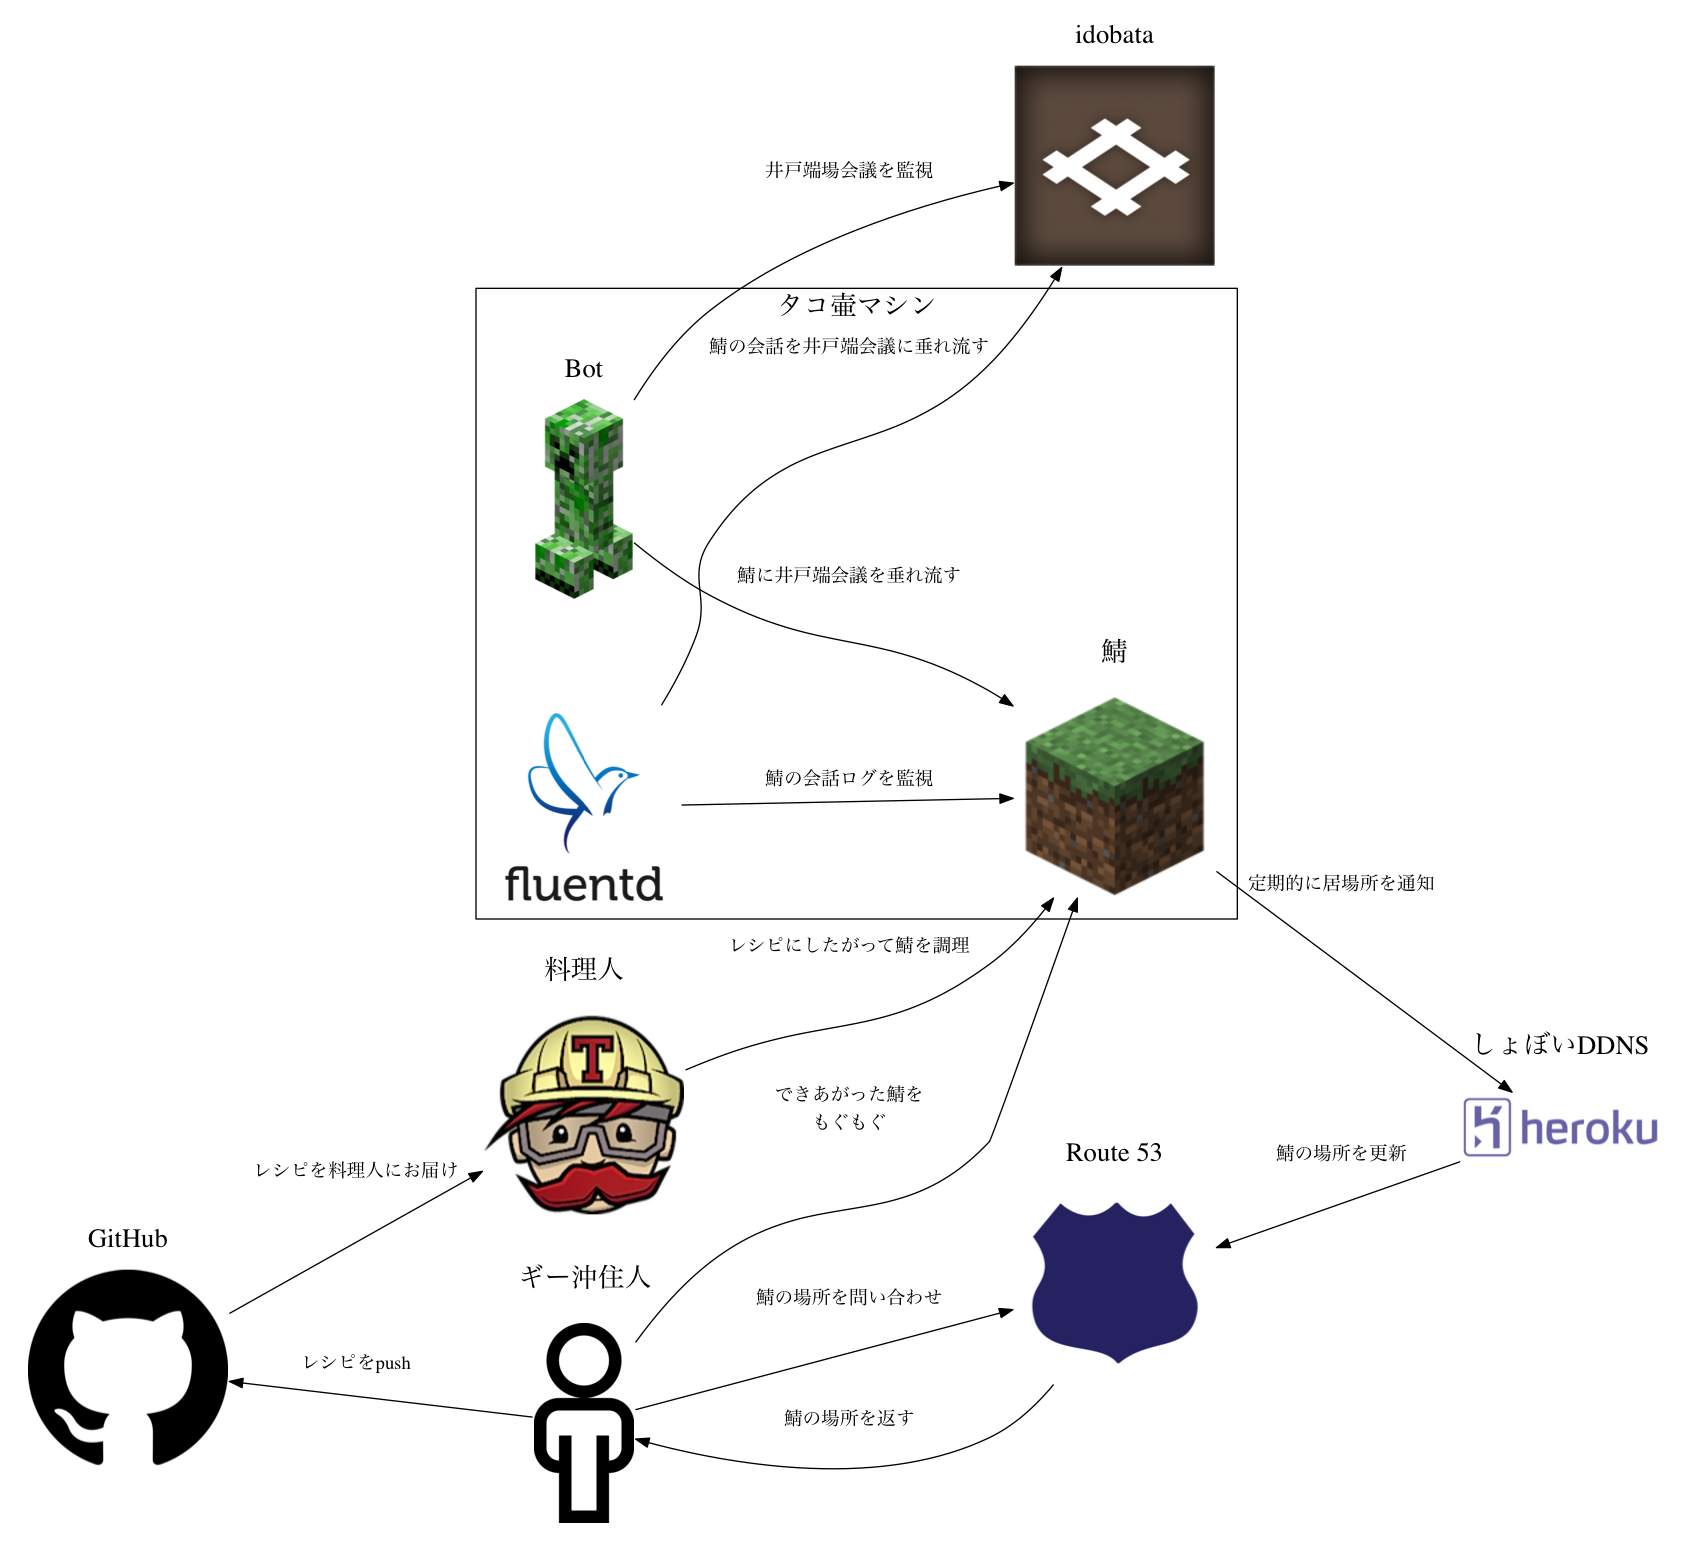
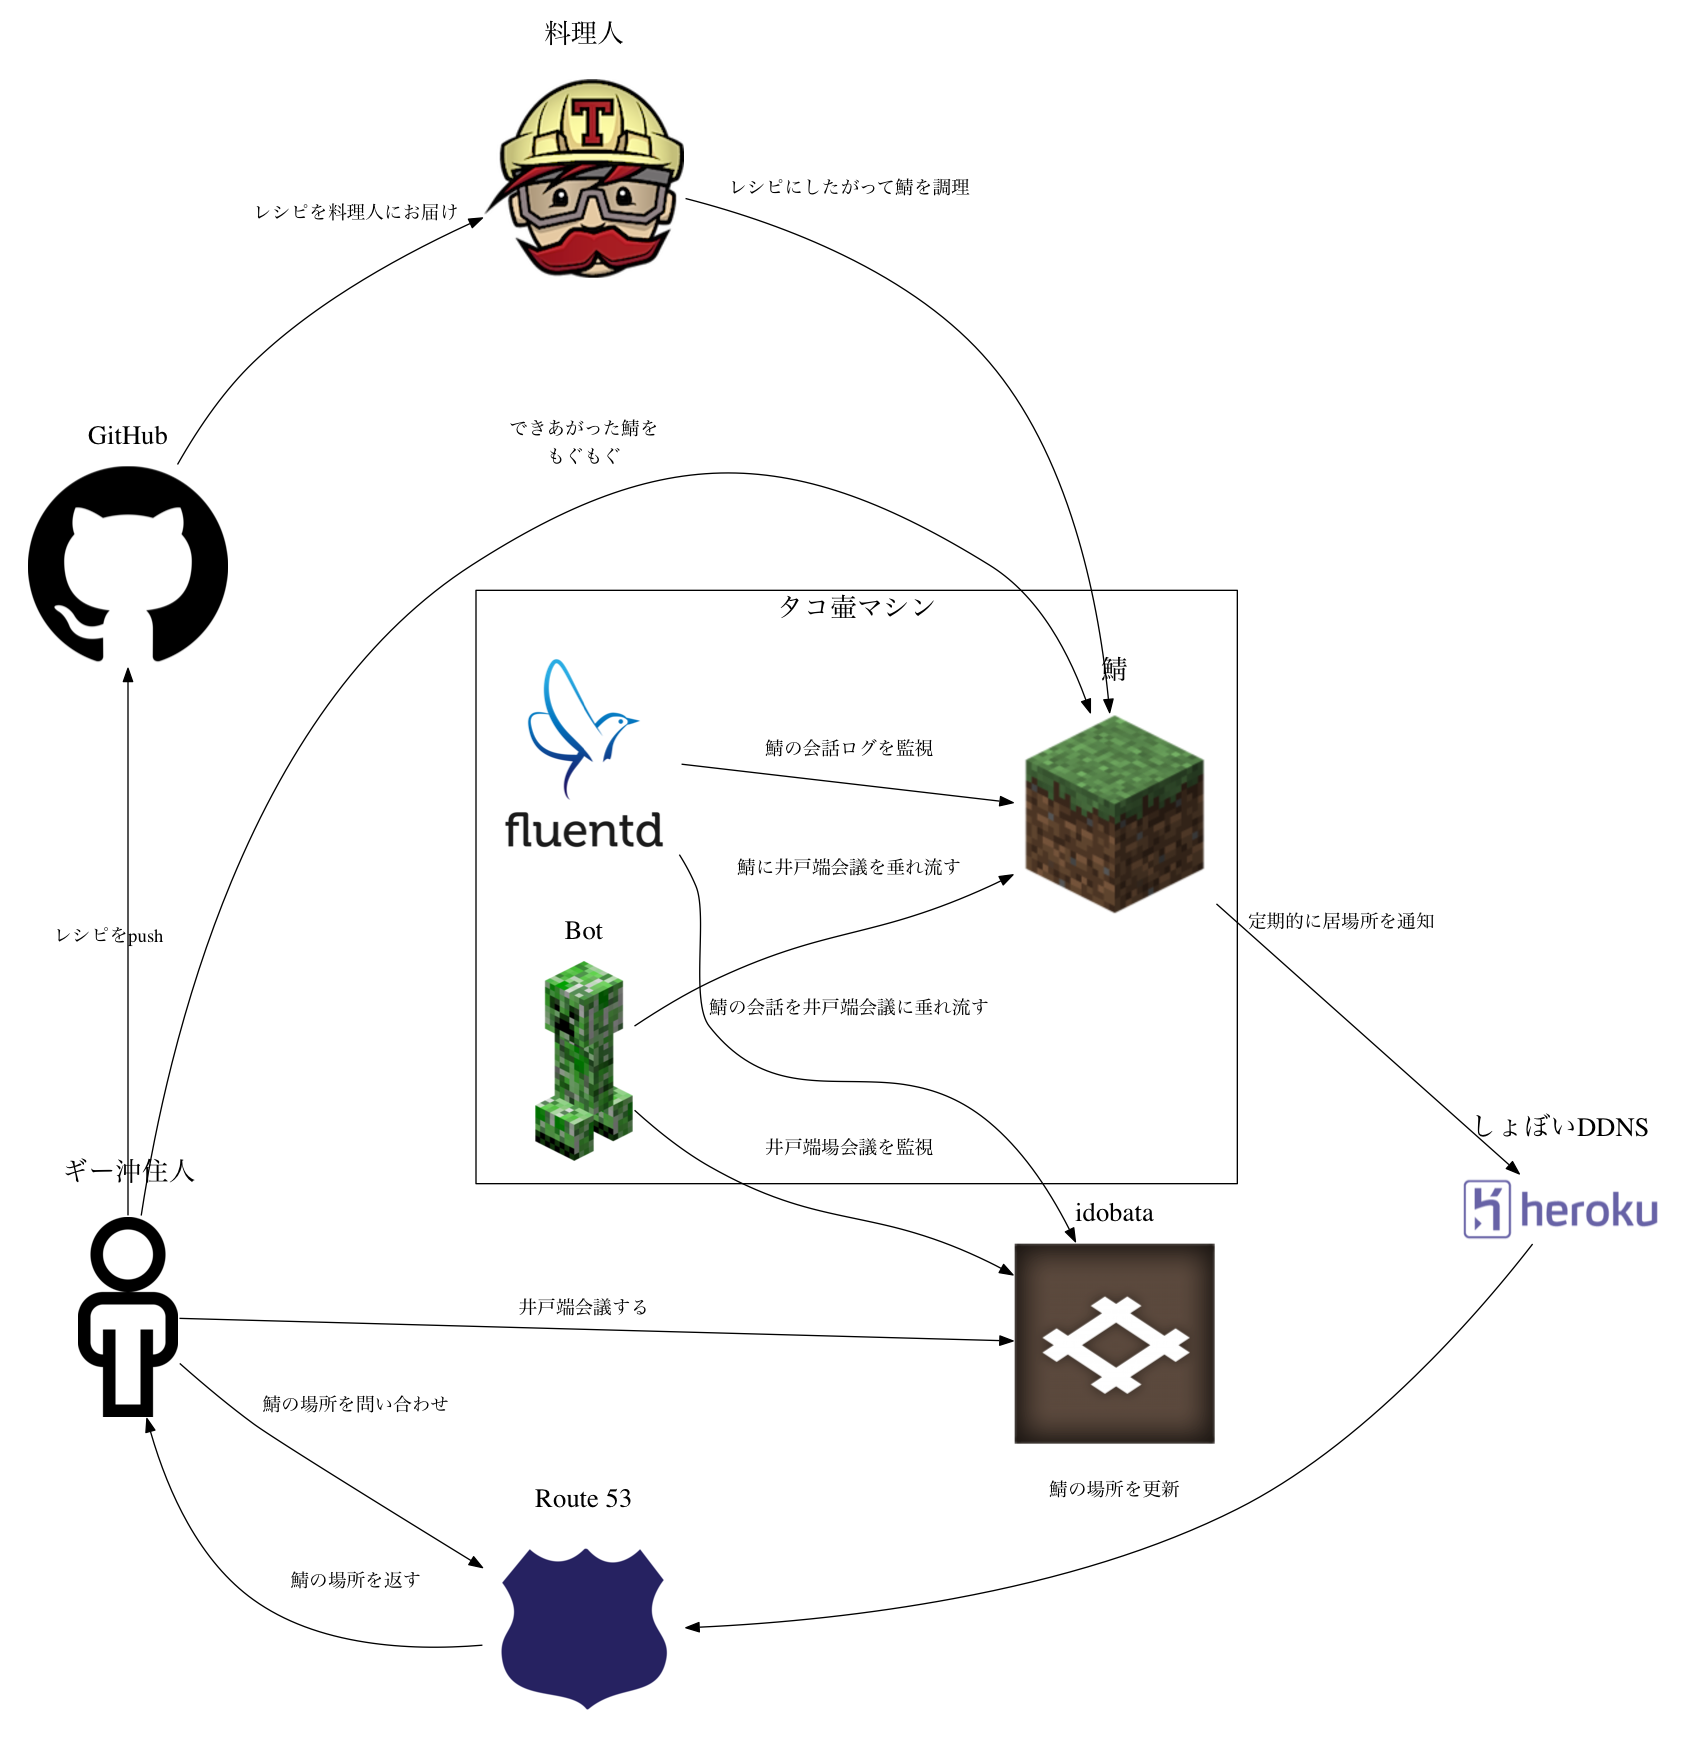
図を更新

diff --git a/doc/architecture_diagram.rb b/doc/architecture_diagram.rb
@@ -89,5 +89,7 @@ Graph do
   edge :Fluentd_Octpus, label: '鯖の会話ログを監視'
   edge :Fluentd_Idobata, label: '鯖の会話を井戸端会議に垂れ流す'
 
+  edge :Geek_Idobata, label: '井戸端会議する', minlen: 2
+
   save :architecture_diagram, :png
 end
